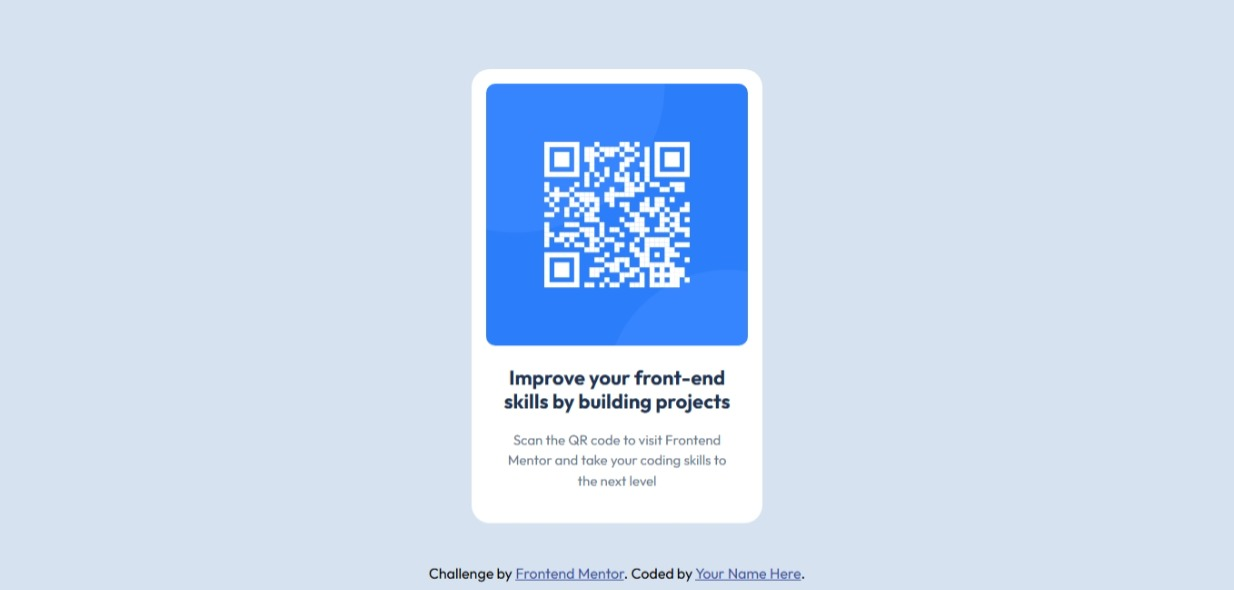
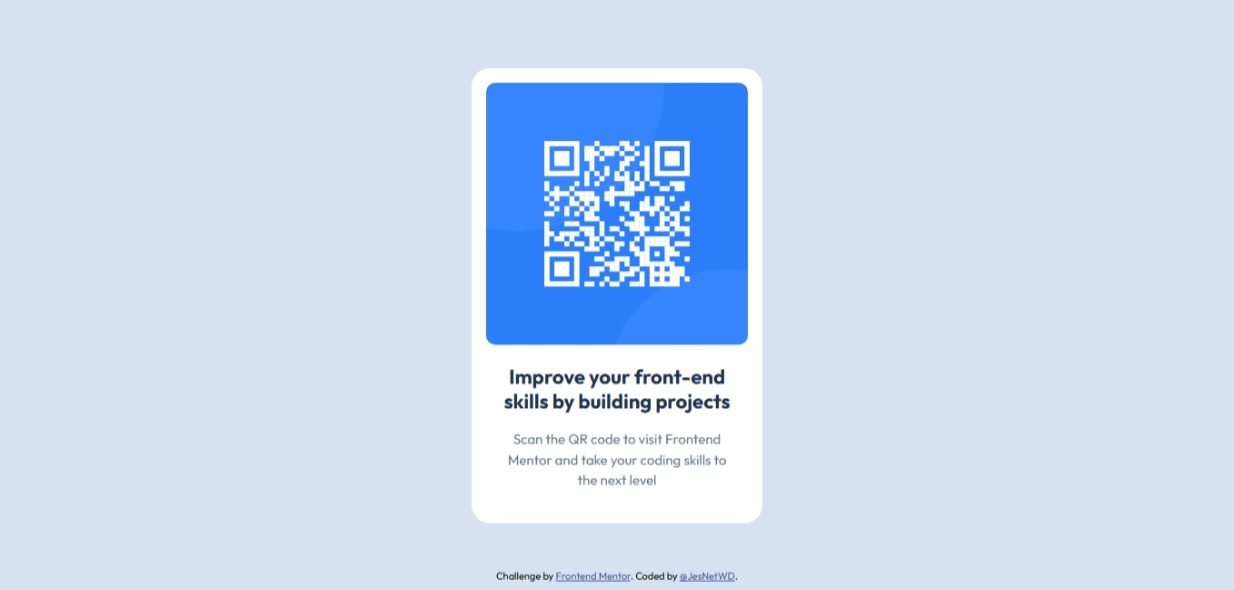
Update Changes

diff --git a/styles.css b/styles.css
@@ -1,5 +1,7 @@
 * {
   box-sizing: border-box;
+  margin: 0;
+  padding: 0;
 }
 
 :root {
@@ -11,7 +13,6 @@
 
 html,
 body {
-  margin: 0;
   min-height: 100vh;
 }
 
@@ -21,6 +22,7 @@ body {
   flex-direction: column;
   justify-content: center;
   align-items: center;
+  row-gap: 1em;
   text-align: center;
   font-family: "Outfit", sans-serif;
   font-optical-sizing: auto;
@@ -29,9 +31,12 @@ body {
 
 main {
   max-width: 320px;
-  padding: 16px 16px 20px;
+  padding: 16px 16px 40px;
   border-radius: 20px;
   background-color: var(--white);
+  display: flex;
+  flex-direction: column;
+  row-gap: 24px;
 }
 
 img {
@@ -40,7 +45,10 @@ img {
 }
 
 section {
-  padding: 0 16px;
+  padding: 0px 16px;
+  display: flex;
+  flex-direction: column;
+  row-gap: 16px;
 }
 
 h1 {
@@ -48,19 +56,18 @@ h1 {
   font-size: 22px;
   font-weight: 700;
   line-height: 1.2em;
+  letter-spacing: 0px;
 }
 
 p {
   color: var(--Slate500);
   font-size: 15px;
   font-weight: 400;
-  line-height: 1.5em;
+  line-height: 1.4em;
+  letter-spacing: 0.2px;
 }
 
 footer {
-  position: fixed;
-  bottom: 0;
-  width: 100%;
   padding: 10px;
 }
 
@@ -75,6 +82,7 @@ footer {
 
 @media only screen and (max-width: 375px) {
   main {
-    margin: 0 1.5rem;
+    margin: 0 1rem;
+    min-width: 250px;
   }
 }
